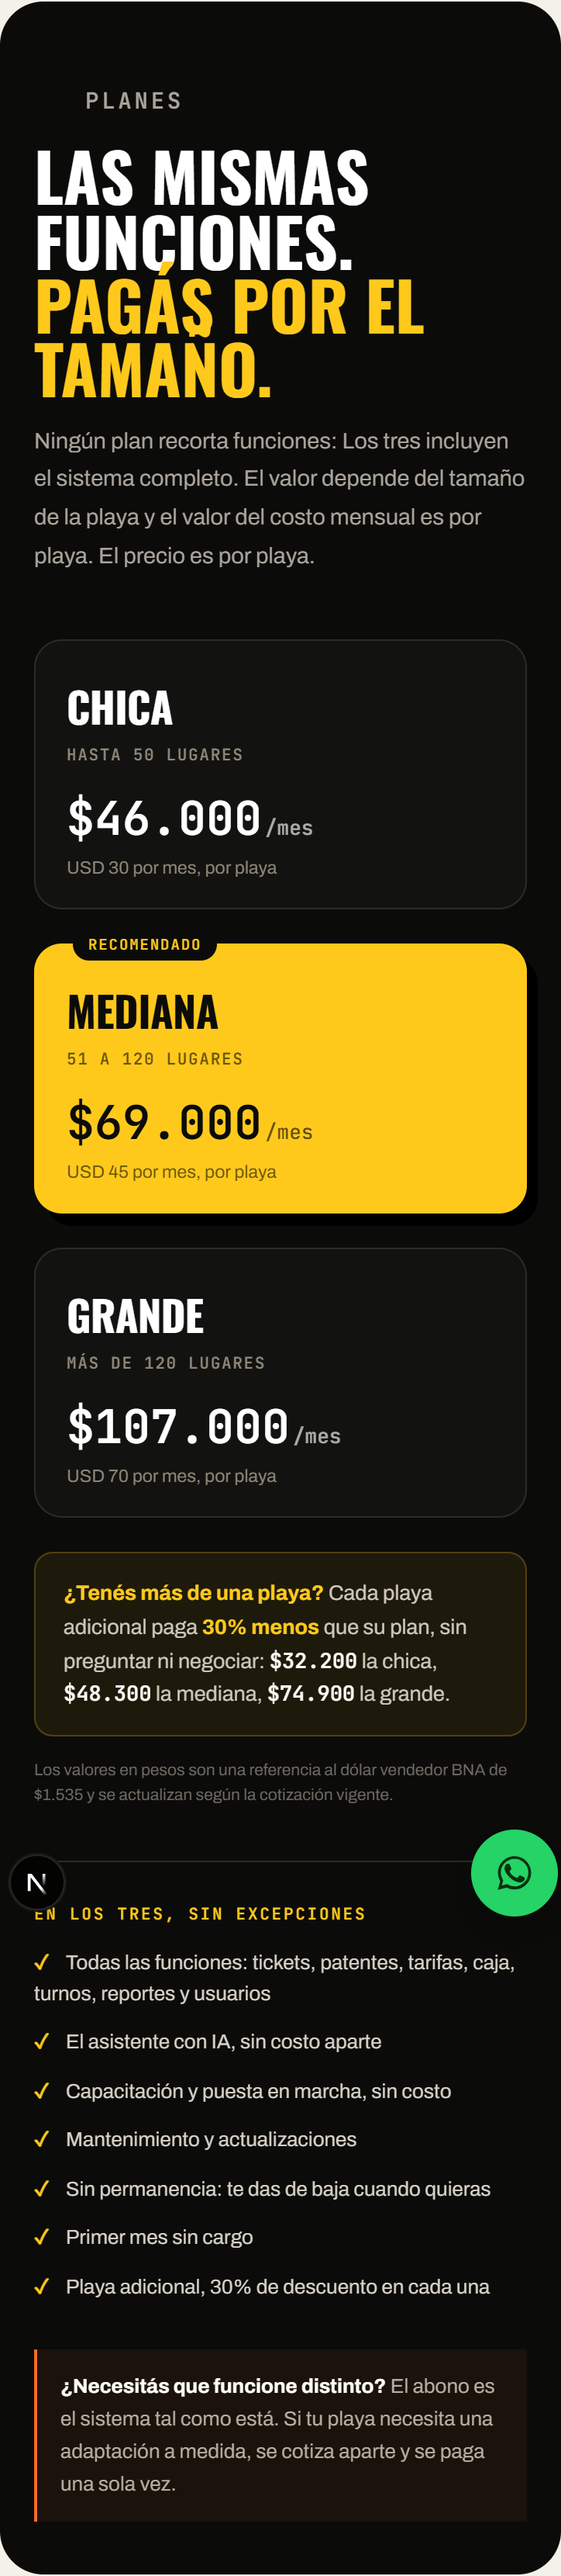
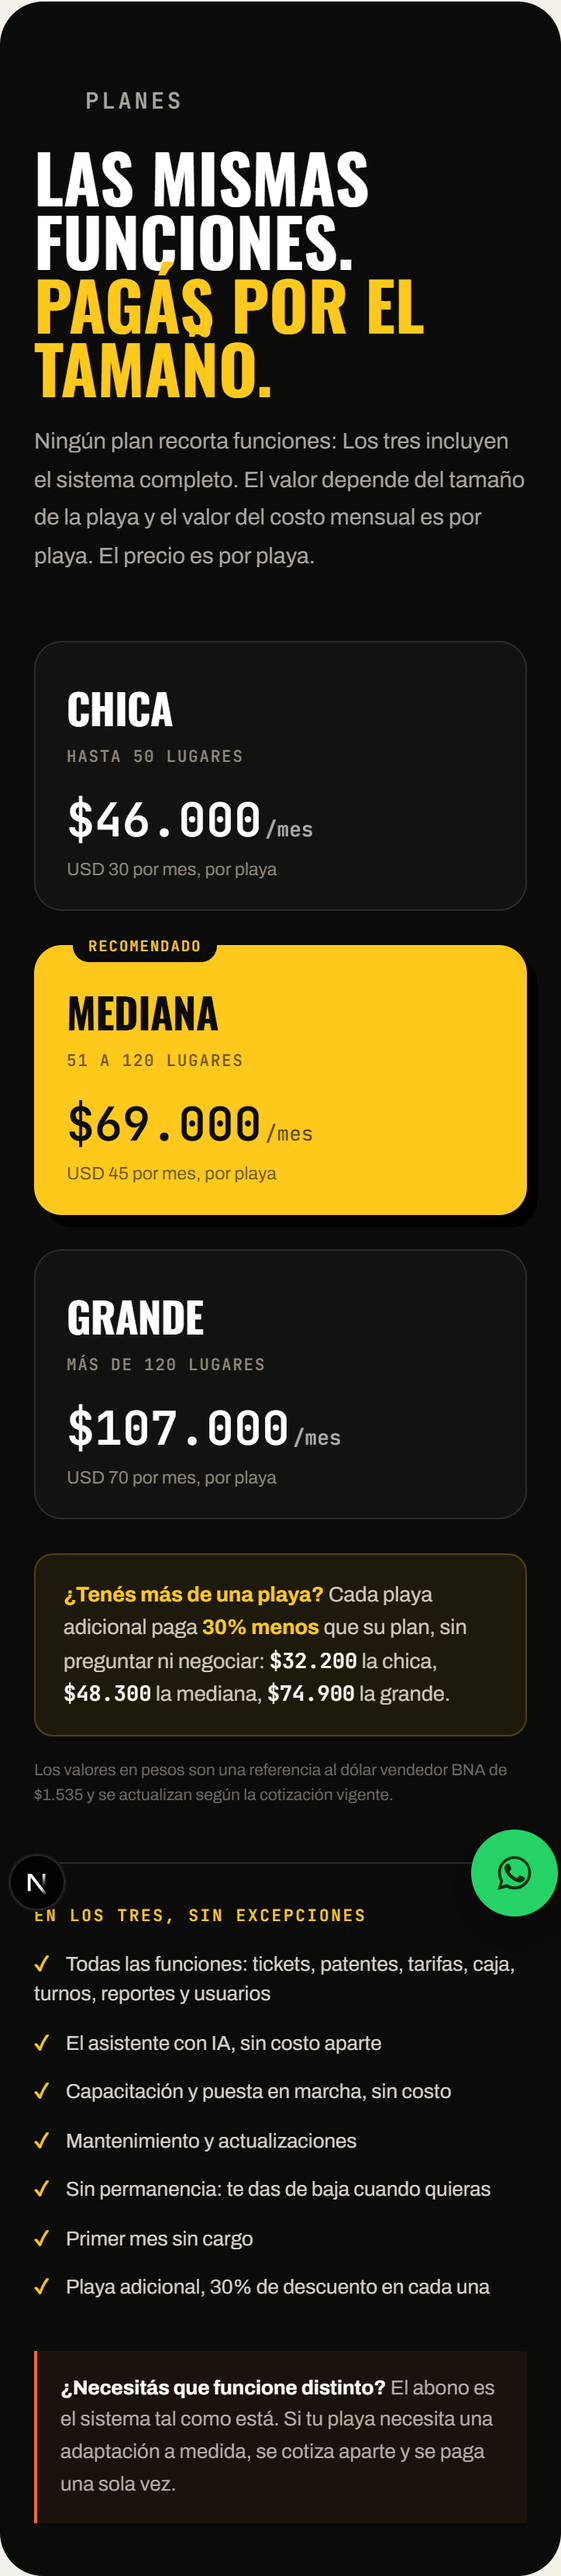
feat: comprobantes

diff --git a/app/page.tsx b/app/page.tsx
@@ -172,7 +172,24 @@ export default function Home() {
       </div>
     </section>
 
-    <section id="funciones" className="features"><div className="wrap"><div className="section-head compact"><div><p className="kicker"><span/> TODO LO QUE NECESITÁS</p><h2>Potente por dentro.<br/><em>Claro por fuera.</em></h2></div><p>La complejidad vive en el motor. El operador ve decisiones simples y datos fáciles de comprobar.</p></div><BentoGlow/></div></section>
+    <section id="funciones" className="features"><div className="wrap"><div className="section-head compact"><div><p className="kicker"><span/> TODO LO QUE NECESITÁS</p><h2>Potente por dentro.<br/><em>Claro por fuera.</em></h2></div></div><BentoGlow/></div></section>
+
+    <section className="comp wrap">
+      <div className="section-head compact">
+        <div>
+          <p className="kicker"><span/> COMPROBANTES <b className="comp-tag">Próximamente</b></p>
+          <h2>Un comprobante al entrar<br/><em>y otro al salir.</em></h2>
+        </div>
+        <p>Se genera solo al registrar el movimiento, con la patente, los horarios, la tarifa aplicada y el importe. Elegís cómo entregarlo — o combinás varias.</p>
+      </div>
+      <div className="comp-grid">
+        <article><b>01</b><div><h3>QR en pantalla</h3><p>El cliente lo escanea con su celular y ve el comprobante. No hace falta pedirle ningún dato ni comprar nada.</p></div></article>
+        <article><b>02</b><div><h3>Enlace por WhatsApp</h3><p>Tocás el botón y se abre el chat del cliente con el mensaje y el enlace ya escritos, desde el WhatsApp de la empresa. No hay que buscar el contacto ni copiar nada: solo enviar.</p></div></article>
+        <article><b>03</b><div><h3>Impresora por USB <span className="comp-hw">Requiere impresora</span></h3><p>Imprimís desde la computadora del mostrador conectada a una impresora térmica.</p></div></article>
+        <article><b>04</b><div><h3>Impresora por Bluetooth <span className="comp-hw comp-hw--pend">Proximamante</span></h3><p>Imprimir desde el celular, automáticamente al registrar la entrada o la salida. Requiere impresora y depende del equipo: estamos confirmando con cuáles funciona y en qué teléfonos.</p></div></article>
+      </div>
+      <p className="comp-nota"><b>La impresora se compra aparte.</b> No está incluida en la suscripción, ni la de USB ni la de Bluetooth. Decime cómo trabaja tu playa y te recomiendo cuál conviene: son equipos comunes y no hacen falta modelos caros.</p>
+    </section>
 
     <section className="admin-section wrap"><div className="section-head"><div><p className="kicker"><span/> ADMINISTRACIÓN COMPLETA</p><h2>Configurá una vez.<br/><em>Operá todos los días.</em></h2></div><p>Cada pantalla administrativa tiene un objetivo concreto. Los cambios de configuración quedan separados de la operación diaria.</p></div><div className="admin-grid">
       <article><span>01</span><div><h3>Tickets y tarifas</h3><p>Crea fichas físicas, tipos de vehículo y precios por día, noche, duración, período iniciado, período completo o minuto exacto. Y aparte, precios por día, semana y mes para las estadías largas.</p></div></article>
@@ -233,7 +250,6 @@ export default function Home() {
           <li><b>✓</b> Capacitación y puesta en marcha, sin costo</li>
           <li><b>✓</b> Mantenimiento y actualizaciones</li>
           <li><b>✓</b> Sin permanencia: te das de baja cuando quieras</li>
-          <li><b>✓</b> Primer mes sin cargo</li>
           <li><b>✓</b> Playa adicional, 30% de descuento en cada una</li>
         </ul>
       </div>

diff --git a/app/extras.css b/app/extras.css
@@ -430,3 +430,79 @@
   letter-spacing: .06em;
   box-shadow: inset 0 -3px 0 rgba(0, 0, 0, .18);
 }
+
+/* ── Comprobantes ───────────────────────────────────────
+   Va con la etiqueta «En camino» porque todavía no está construido: ninguna de
+   las cuatro formas existe en el sistema. Cuando se implemente, se saca la
+   etiqueta y listo; el resto del texto ya describe lo que va a hacer. */
+.comp { padding-bottom: 120px; }
+.comp-tag {
+  margin-left: 10px;
+  padding: 3px 9px;
+  border-radius: 99px;
+  border: 1px solid var(--orange);
+  background: rgba(243, 107, 43, .1);
+  color: var(--orange);
+  font: 700 9.5px JetBrains Mono;
+  letter-spacing: .1em;
+  text-transform: uppercase;
+}
+.comp-grid { display: grid; grid-template-columns: 1fr 1fr; gap: 14px; }
+.comp-grid article {
+  display: grid;
+  grid-template-columns: 34px 1fr;
+  gap: 14px;
+  padding: 24px 22px;
+  border: 1px solid var(--line);
+  border-radius: 16px;
+  background: var(--white);
+}
+.comp-grid b { font: 600 12px JetBrains Mono; color: var(--orange); }
+.comp-grid h3 { font-size: 20px; margin-bottom: 9px; }
+.comp-grid p { margin: 0; font-size: 13px; line-height: 1.65; color: #6b655b; }
+.comp-nota {
+  margin: 16px 0 0;
+  padding: 16px 18px;
+  border-left: 2px solid var(--yellow);
+  background: rgba(255, 201, 28, .08);
+  font-size: 13px;
+  line-height: 1.65;
+  color: #5d584e;
+}
+.comp-nota b { color: var(--ink); }
+
+@media (max-width: 900px) { .comp-grid { grid-template-columns: 1fr; } }
+@media (max-width: 620px) {
+  .comp { padding-bottom: 80px; }
+  .comp-grid article { padding: 20px 18px; }
+  .comp-grid h3 { font-size: 18px; }
+}
+
+/* El gris del texto de las tarjetas estaba atado a `p:last-child`: en cuanto una
+   tarjeta suma algo después del párrafo —la chapa de la cámara, por ejemplo— el
+   texto se quedaba en blanco. Esto lo ata al elemento y no a su posición. */
+.bento > p:not(.eyebrow) { font-size: 13px; line-height: 1.65; color: #a8a197; }
+
+/* Marca las dos opciones que dependen de comprar un equipo, para que no se
+   confundan con las que funcionan con lo que el cliente ya tiene. */
+.comp-hw {
+  display: inline-block;
+  vertical-align: middle;
+  margin-left: 8px;
+  padding: 3px 8px;
+  border-radius: 99px;
+  border: 1px solid var(--line);
+  background: #f1ece1;
+  font: 600 9.5px JetBrains Mono;
+  letter-spacing: .07em;
+  text-transform: uppercase;
+  color: #857f74;
+}
+
+/* La de Bluetooth va un escalón más atrás que las otras tres: además de comprar
+   equipo, todavía no está confirmado en qué teléfonos e impresoras funciona. */
+.comp-hw--pend {
+  border-color: var(--orange);
+  background: rgba(243, 107, 43, .1);
+  color: var(--orange);
+}
